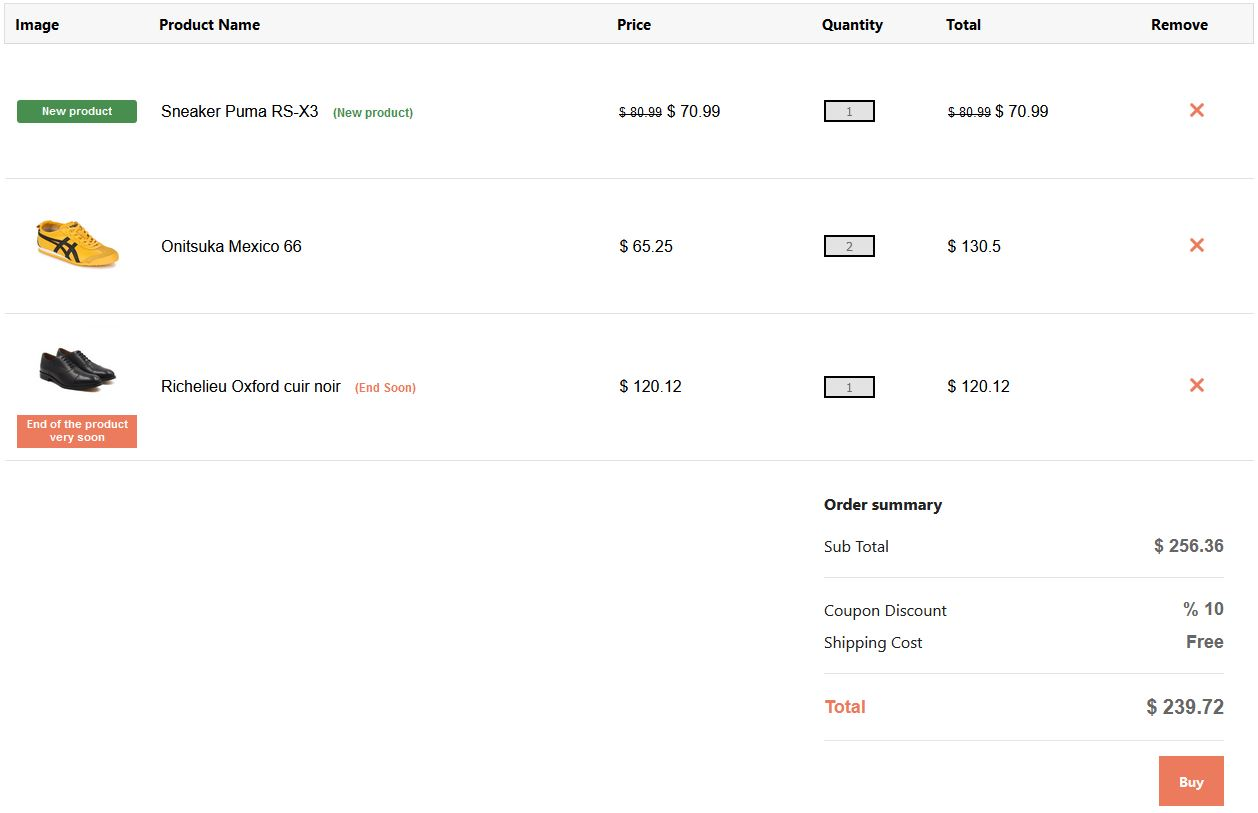
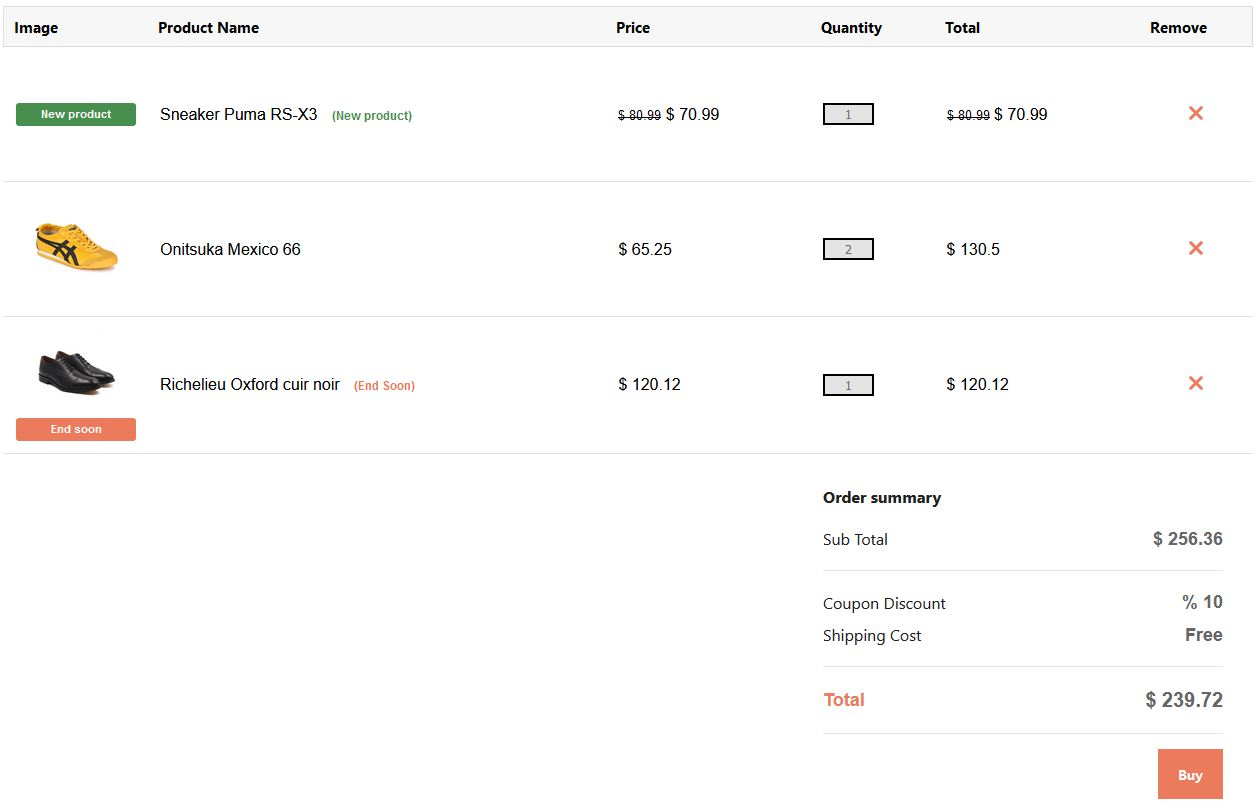
Update README and images

diff --git a/src/pages/cart/cart.test.tsx b/src/pages/cart/cart.test.tsx
@@ -79,30 +79,6 @@ describe("Cart", () => {
       });
     });
 
-    describe("Product Discount", () => {
-      it("should render product row with the correct price into the cells when product have a discount", async () => {
-        // Given
-        mockRetrivedUserAndProductsWith(MOCKED_USER, [
-          NEW_PRODUCT_WITH_DISCOUNT,
-        ]);
-        // When
-        await renderComponent();
-        // Then
-        expect(getBlock(PRICE_CELL)).toHaveTextContent("$ 10 $ 5");
-        expect(getBlock(TOTAL_PRICE_CELL)).toHaveTextContent("$ 20 $ 10");
-      });
-
-      it("should render product row with the correct price into the cells when product have NOT a discount", async () => {
-        // Given
-        mockRetrivedUserAndProductsWith(MOCKED_USER, [COMMON_PRODUCT]);
-        // When
-        await renderComponent();
-        // Then
-        expect(getBlock(PRICE_CELL)).toHaveTextContent("$ 10");
-        expect(getBlock(TOTAL_PRICE_CELL)).toHaveTextContent("$ 20");
-      });
-    });
-
     describe("Product Row", () => {
       it("should render product row with 'New Product' image and title cells when products contains a 'New Product'", async () => {
         // Given
@@ -137,6 +113,30 @@ describe("Cart", () => {
         expect(isRendered(COMMON_PRODUCT_ROW)).toBeTruthy();
         expect(isRendered(NEW_PRODUCT_ROW)).toBeFalsy();
         expect(isRendered(ENDED_PRODUCT_ROW)).toBeFalsy();
+      });
+    });
+
+    describe("Product Discount", () => {
+      it("should render product row with the correct price into the cells when product have a discount", async () => {
+        // Given
+        mockRetrivedUserAndProductsWith(MOCKED_USER, [
+          NEW_PRODUCT_WITH_DISCOUNT,
+        ]);
+        // When
+        await renderComponent();
+        // Then
+        expect(getBlock(PRICE_CELL)).toHaveTextContent("$ 10 $ 5");
+        expect(getBlock(TOTAL_PRICE_CELL)).toHaveTextContent("$ 20 $ 10");
+      });
+
+      it("should render product row with the correct price into the cells when product have NOT a discount", async () => {
+        // Given
+        mockRetrivedUserAndProductsWith(MOCKED_USER, [COMMON_PRODUCT]);
+        // When
+        await renderComponent();
+        // Then
+        expect(getBlock(PRICE_CELL)).toHaveTextContent("$ 10");
+        expect(getBlock(TOTAL_PRICE_CELL)).toHaveTextContent("$ 20");
       });
     });
   });

diff --git a/src/components/products/products.tsx b/src/components/products/products.tsx
@@ -43,7 +43,7 @@ export function Products({ products, removeProduct }: Props): ReactElement {
                       className={styles.endedProduct}
                     >
                       <img src={product.image} alt="ended product" />
-                      <div>End of the product very soon</div>
+                      <div>End soon</div>
                     </div>
                   )}
 

diff --git a/src/components/products/products.module.scss b/src/components/products/products.module.scss
@@ -72,10 +72,10 @@
         font-size: 11px;
         background-color: #ec7a5c;
         color: white;
-        padding: 3px 3px 5px;
         font-weight: 600;
         text-align: center;
-        height: 25px;
+        padding: 5px;
+        border-radius: 3px;
       }
     }
 

diff --git a/README.md b/README.md
@@ -54,16 +54,22 @@ An common product is displayed without specific rules
 ![Common Product](public/images/commonProduct.JPG)
 
 ```
-An new product is displayed with no picture and a label next to the product title
+An new product is displayed with a label 'New product' instead of the picture and next to the product title
 ```
 
 ![New Product](public/images/newProduct.JPG)
 
 ```
-An ended product is displayed with an label next to the picture and the product title
+An ended product is displayed with a label 'End soon' next to the picture and the product title
 ```
 
 ![Ended Product](public/images/endedProduct.JPG)
+
+##### Product Discount
+
+```
+- If product have discount then display old price striped and the new price next to it
+```
 
 ### 💲 Summary
 
@@ -102,4 +108,5 @@ Heres the step to calculate the total price:
 ## 👍 Useful commands
 
 > `npm start`: Launch the page
+>
 > `npm test`: Launch the tests
